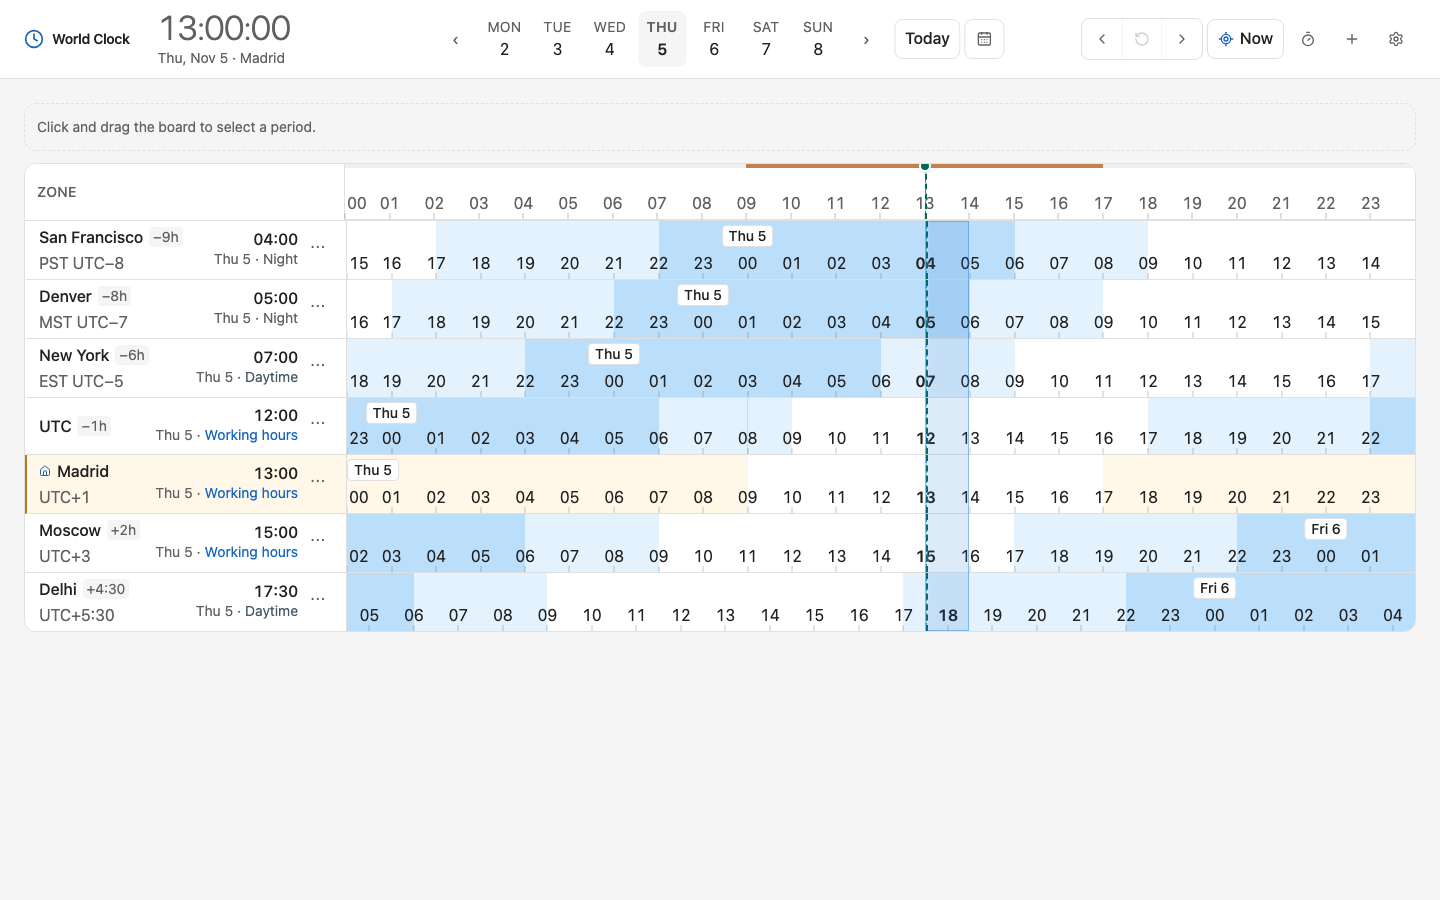
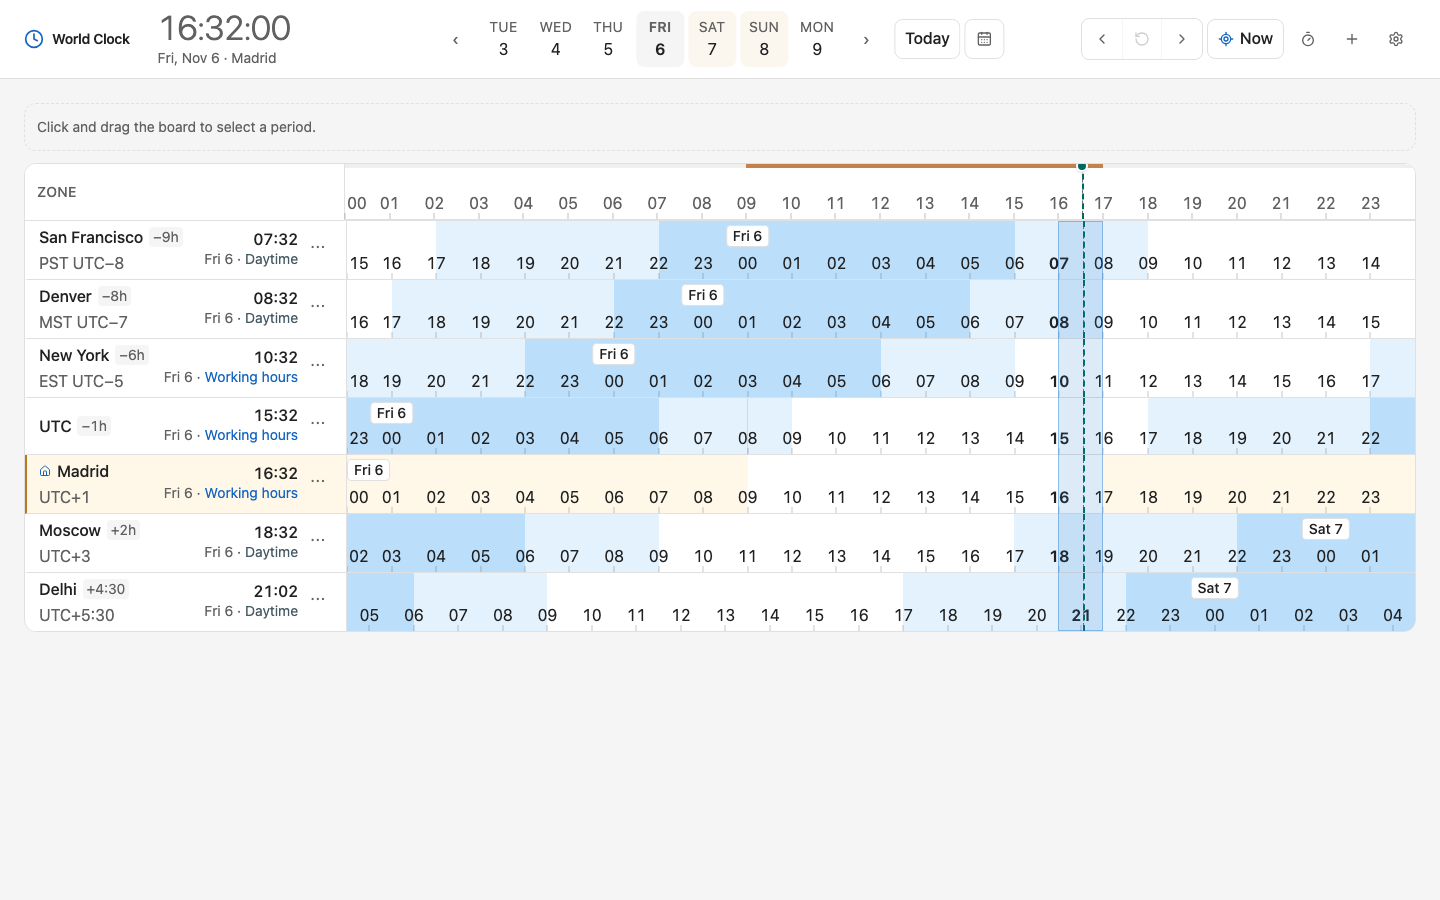
style: tint weekend dates in the day strip
Add a subtle warm weekend tint with a slightly deeper hover, overridden by the selected-day state.

diff --git a/src/lib/components/DayStrip.svelte b/src/lib/components/DayStrip.svelte
@@ -33,6 +33,18 @@
   function dayNumber(date: DateString): string {
     return String(Number(date.slice(8, 10)));
   }
+
+  function isWeekend(date: DateString): boolean {
+    const weekday = new Date(`${date}T12:00:00Z`).getUTCDay();
+    return weekday === 0 || weekday === 6;
+  }
+
+  function dayClass(date: DateString): string {
+    if (date === viewDate) {
+      return 'bg-surface text-accent-text font-semibold hover:bg-surface';
+    }
+    return isWeekend(date) ? 'bg-weekend hover:bg-weekend-hover' : 'hover:bg-surface';
+  }
 </script>
 
 <div
@@ -64,10 +76,7 @@
         onclick={() => {
           onSelectDate(date);
         }}
-        class="hover:bg-surface flex min-h-10 min-w-12 shrink-0 flex-col items-center rounded-lg px-2 py-1.5 text-xs transition-colors"
-        class:text-accent-text={date === viewDate}
-        class:bg-surface={date === viewDate}
-        class:font-semibold={date === viewDate}
+        class={`flex min-h-10 min-w-12 shrink-0 flex-col items-center rounded-lg px-2 py-1.5 text-xs transition-colors ${dayClass(date)}`}
       >
         <span class="text-muted text-sm tracking-wide uppercase">{weekdayShort(date)}</span>
         <span class="text-text text-base tabular-nums">{dayNumber(date)}</span>

diff --git a/e2e/world-clock.spec.ts b/e2e/world-clock.spec.ts
@@ -852,13 +852,17 @@ test('matches the settings hover across secondary controls', async ({ page }) =>
 
   for (const locator of [
     page.getByRole('button', { name: /^today$/i }),
-    page.getByRole('button', { name: 'Sat 7 2026' }),
+    page.getByRole('button', { name: 'Fri 6 2026' }),
     page.getByRole('button', { name: /next day/i }),
     page.getByRole('button', { name: 'Actions for New York' }),
   ]) {
     await locator.hover();
     await expect.poll(() => background(locator)).toBe(hoverBackground);
   }
+
+  const saturday = page.getByRole('button', { name: 'Sat 7 2026' });
+  await saturday.hover();
+  await expect.poll(() => background(saturday)).toBe('rgb(251, 247, 239)');
 
   await page.getByRole('button', { name: 'Actions for New York' }).click();
   const rename = page.getByRole('menuitem', { name: 'Rename' });

diff --git a/src/app.css b/src/app.css
@@ -19,6 +19,8 @@
   --color-home-row: var(--home-row);
   --color-home-row-header: var(--home-row-header);
   --color-home-accent: var(--home-accent);
+  --color-weekend: var(--weekend);
+  --color-weekend-hover: var(--weekend-hover);
   --color-band-text: var(--band-text);
   --color-band-marker: var(--band-marker);
   --color-band-marker-text: var(--band-marker-text);
@@ -56,6 +58,8 @@
   --home-row: #fff8e8;
   --home-row-header: #fff8e8;
   --home-accent: #b7791f;
+  --weekend: #fbf7ef;
+  --weekend-hover: #f4ede0;
   --now: #26a69a;
   --focus-line: #00695c;
   --focus-line-ui: #00695c;
@@ -85,6 +89,8 @@
   --home-row: #f5e9c8;
   --home-row-header: #4e3d24;
   --home-accent: #fbbf24;
+  --weekend: #49443b;
+  --weekend-hover: #514b40;
   --now: #26a69a;
   --focus-line: #00695c;
   --focus-line-ui: #80cbc4;

diff --git a/src/lib/components/DayStrip.test.ts b/src/lib/components/DayStrip.test.ts
@@ -15,6 +15,9 @@ it('renders seven days and marks the selected date', () => {
   });
   expect(screen.getAllByRole('button', { name: /2026/ })).toHaveLength(7);
   expect(screen.getByRole('button', { name: /Thu 5/ })).toHaveAttribute('aria-current', 'date');
+  expect(screen.getByRole('button', { name: 'Sat 7 2026' })).toHaveClass('bg-weekend');
+  expect(screen.getByRole('button', { name: 'Sun 8 2026' })).toHaveClass('bg-weekend');
+  expect(screen.getByRole('button', { name: 'Mon 2 2026' })).not.toHaveClass('bg-weekend');
 });
 
 it('moves to the previous and next day', async () => {

diff --git a/AGENTS.md b/AGENTS.md
@@ -130,6 +130,8 @@ docs/architecture.md  current design
   trigger sits outside the scrollable seven-day row and selects through the
   same day-navigation path as the date buttons. Its jump field accepts
   `YYYY`, `YYYY-MM`, or `YYYY-MM-DD` (separators optional for compact digits).
+- Weekend dates in the seven-day strip use the warm `weekend` tint. Keep it
+  subtle and let the selected-day state override it.
 - Hide `GMT…`/`UTC…` abbreviations when the UTC offset is already visible.
   Format zero-minute offsets as `UTC+3`/`UTC−8`; zero is `UTC`.
 - Do not repeat metadata that equals the zone label. The UTC zone omits its

diff --git a/docs/typography.md b/docs/typography.md
@@ -74,6 +74,7 @@ The light theme follows Material Blue:
 | Work strip | `#b45309` / `#fbbf24` | Work-hours indicator          |
 | Work cells | `#ffffff`             | Working-hours cells           |
 | Home row   | `#fff8e8` / `#f5e9c8` | Home-zone highlight           |
+| Weekend    | `#fbf7ef` / `#49443b` | Subtle day-strip weekend tint |
 
 Status text uses the semantic warning and danger tokens. Dark mode keeps the
 same hierarchy with a dark surface, lighter blue accents, and yellow work-hour
